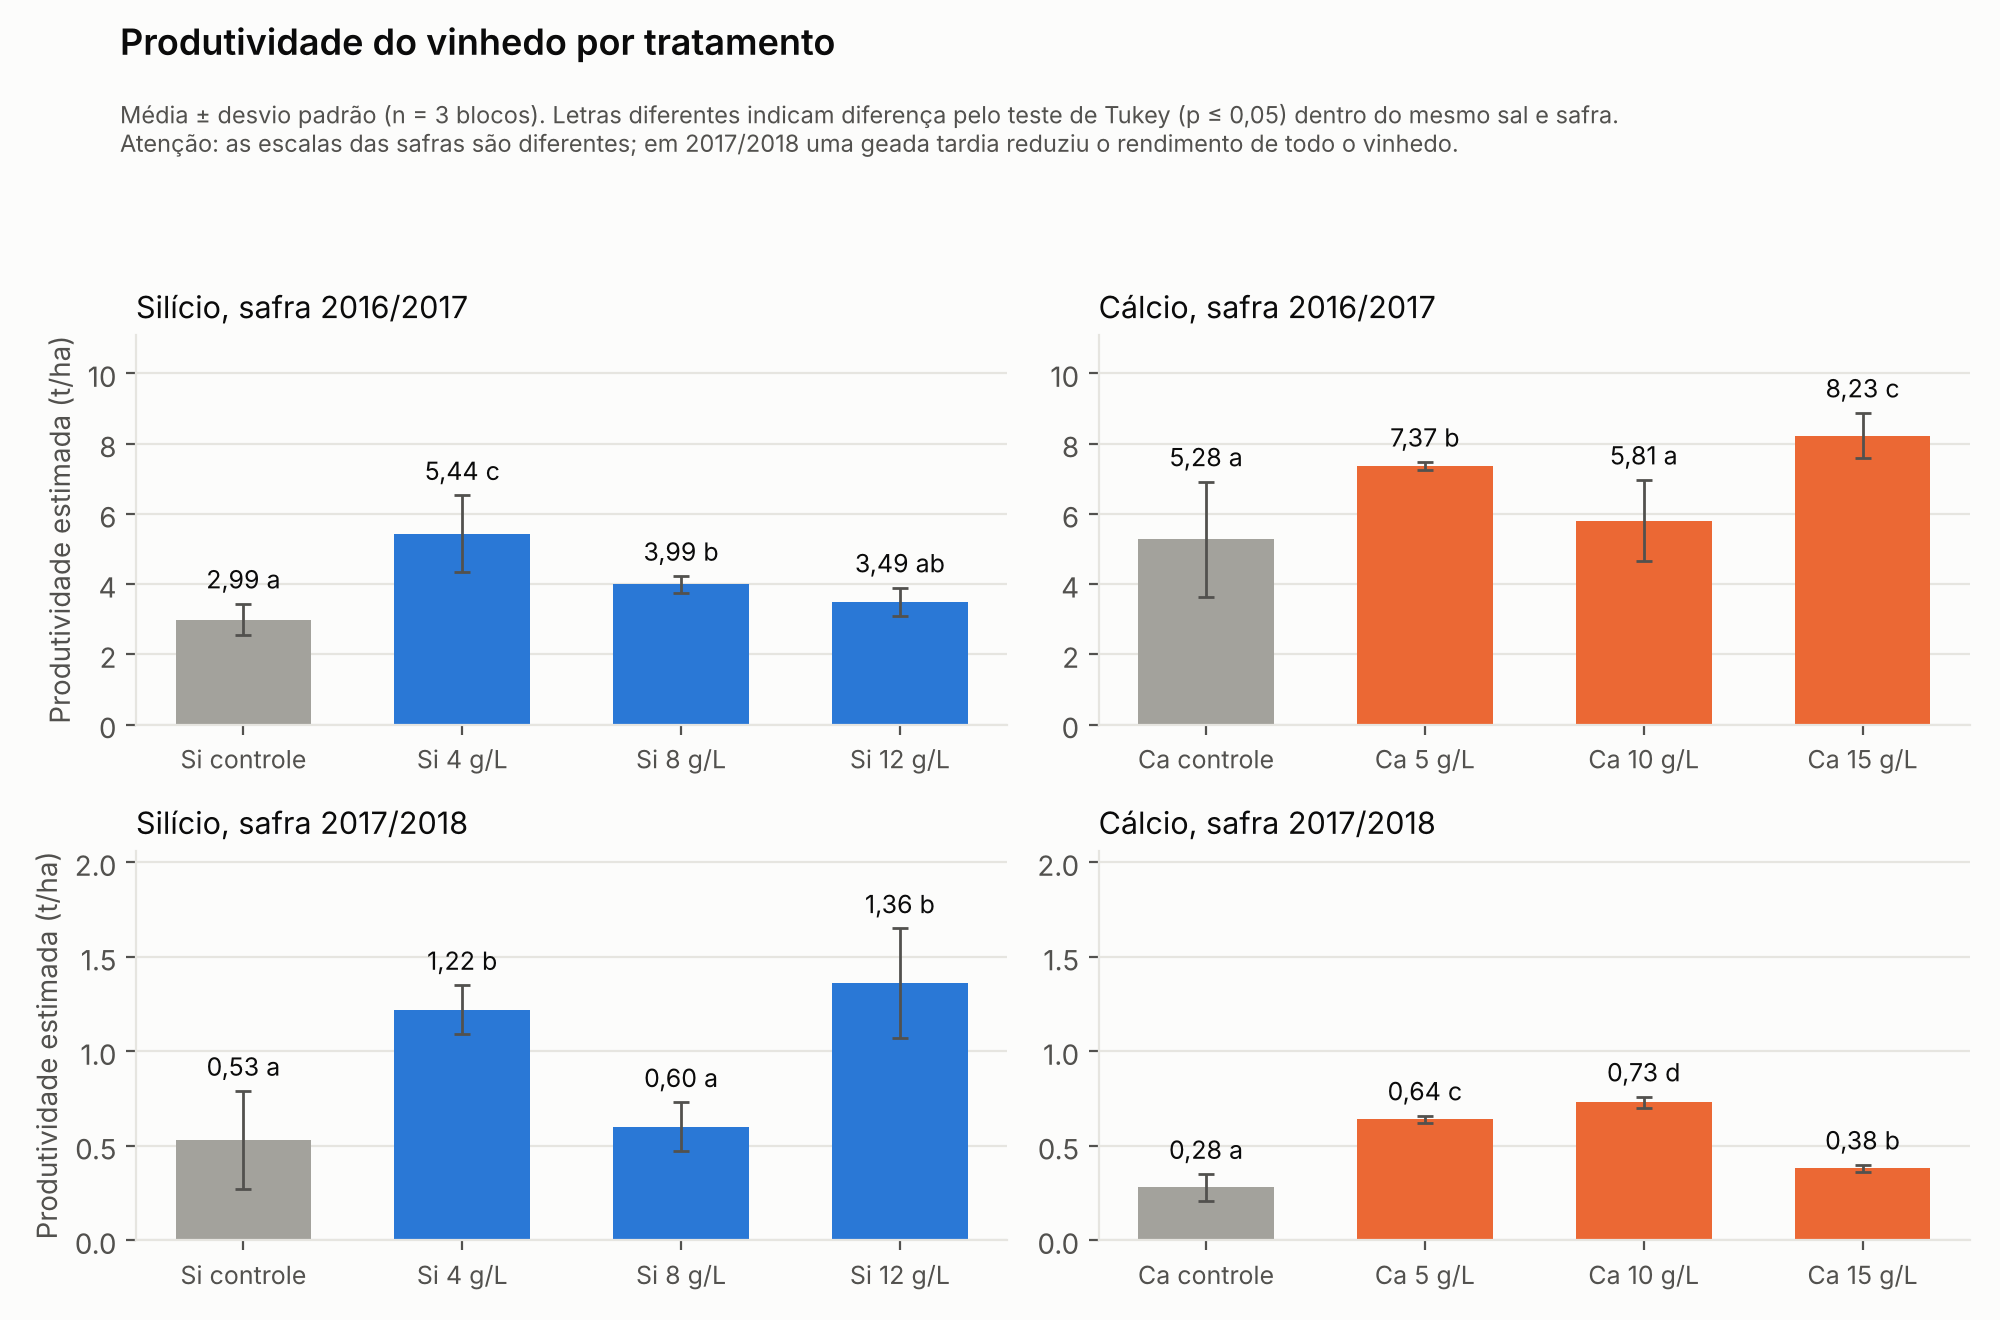
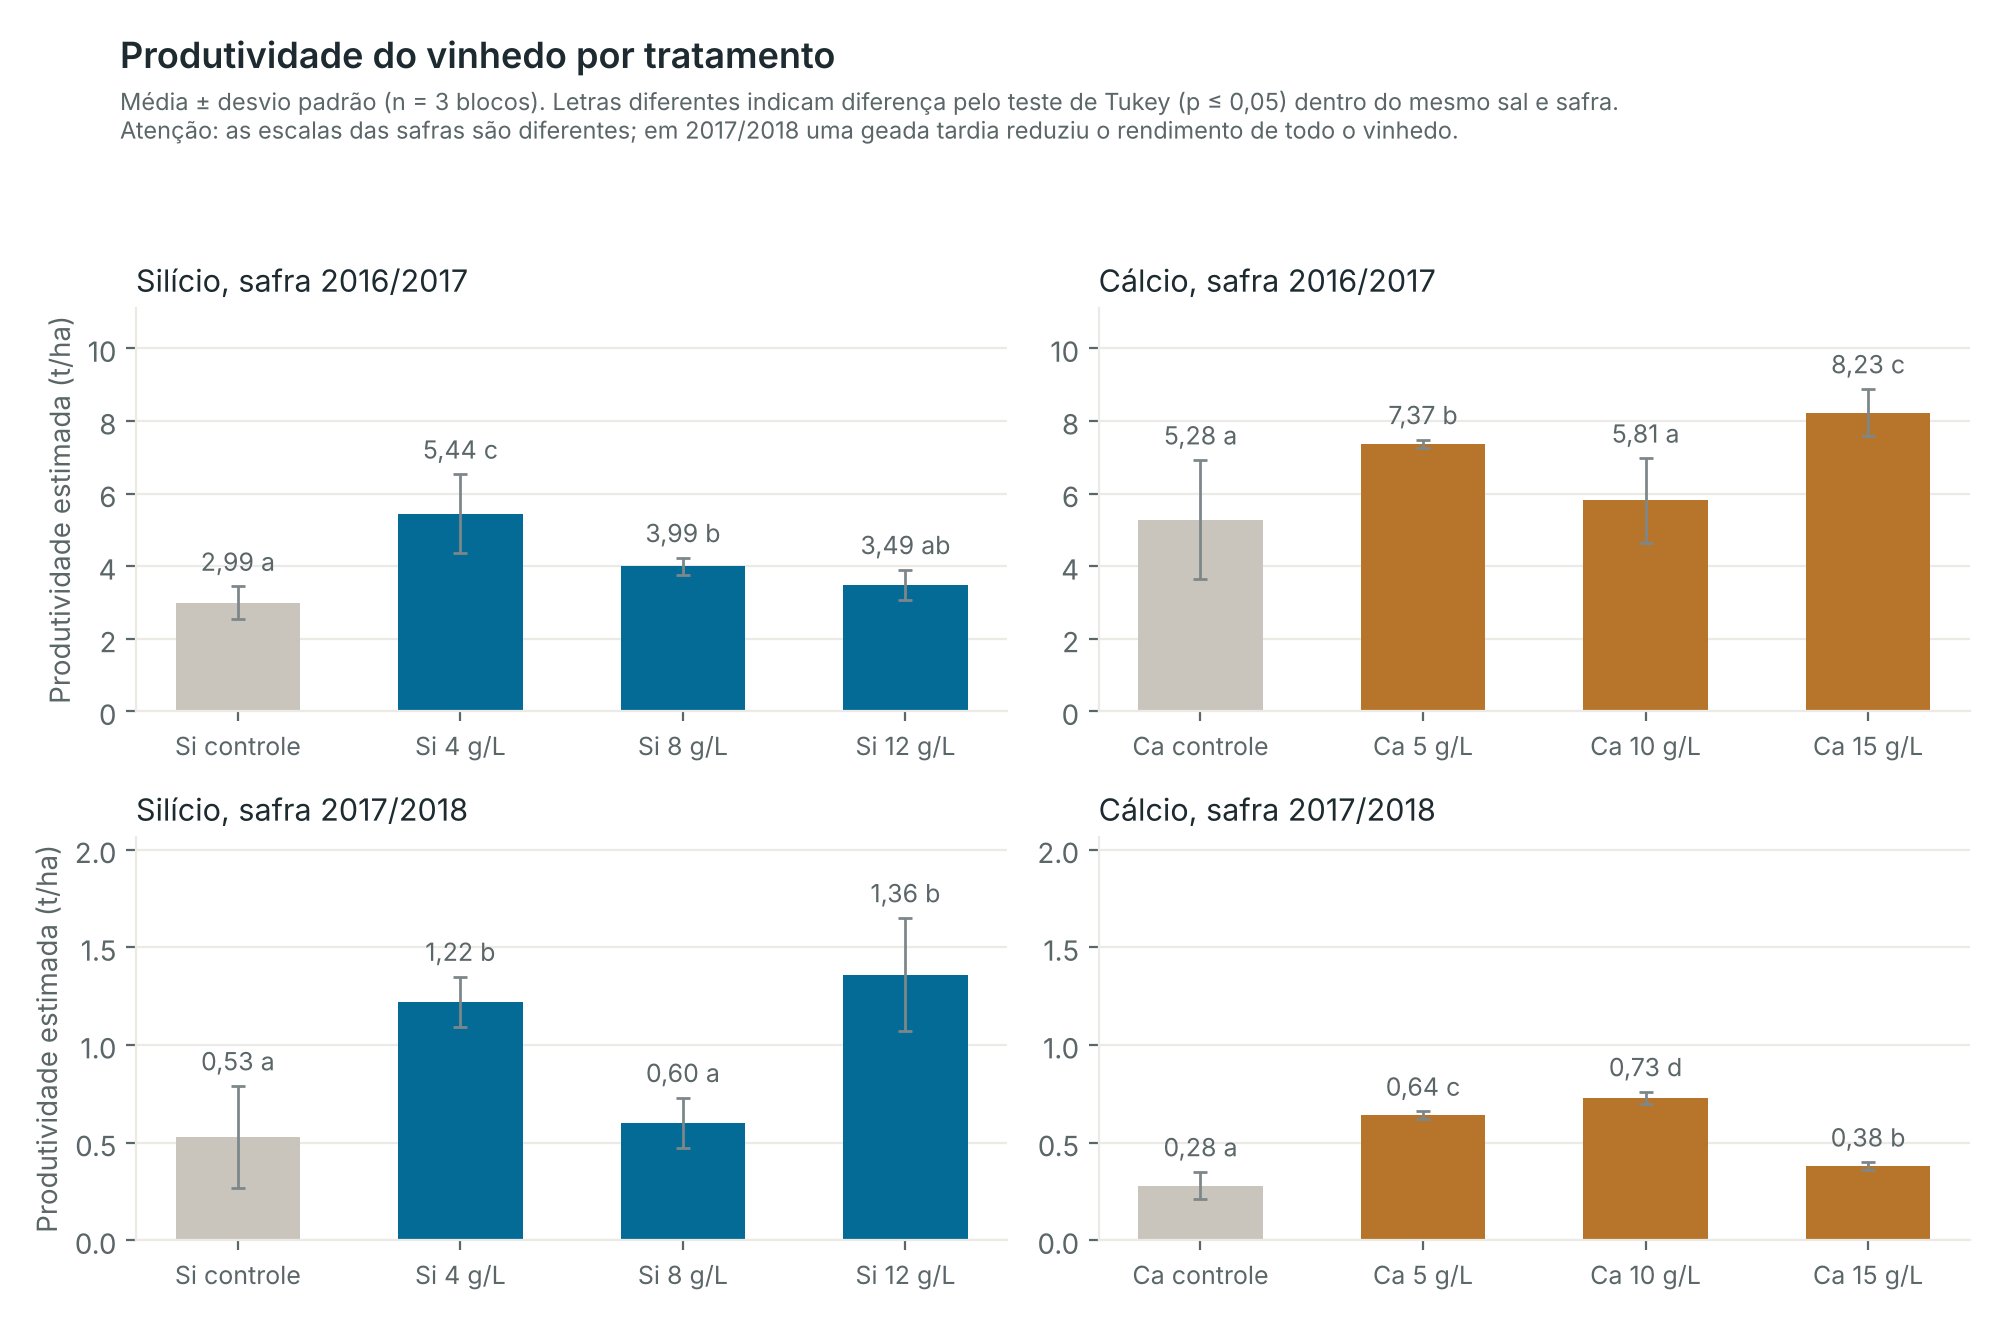
Visualização: nova paleta (azul-petróleo e ocre), validada para daltonismo e contraste

diff --git a/scripts/03_analysis.py b/scripts/03_analysis.py
@@ -19,9 +19,9 @@ d = pd.read_sql("""SELECT t.sal, t.nivel, t.rotulo, t.dose_g_l, m.safra, m.etapa
 d = d[d.flag_qualidade.fillna("") == ""]
 NIVEIS = ["controle", "baixa", "media", "alta"]
 
-# --- estilo (paleta de referência validada: Si = slot 1 azul, Ca = slot 2 laranja) ---
-SURF, INK, INK2, GRID, NEUTRO = "#fcfcfb", "#0b0b0b", "#52514e", "#e6e5e0", "#a3a29c"
-COR = {"Si": "#2a78d6", "Ca": "#eb6834"}
+# --- estilo: azul-petróleo (silício) e ocre (cálcio); par validado para daltonismo e contraste ---
+SURF, INK, INK2, GRID, NEUTRO = "#ffffff", "#1d2b30", "#5b6669", "#eceae5", "#c9c5bc"
+COR = {"Si": "#046b96", "Ca": "#b7752b"}
 plt.rcParams.update({"font.family": "Inter", "font.size": 10, "axes.edgecolor": GRID, "axes.labelcolor": INK2,
                      "xtick.color": INK2, "ytick.color": INK2, "axes.titlecolor": INK, "figure.facecolor": SURF,
                      "axes.facecolor": SURF, "axes.spines.top": False, "axes.spines.right": False, "savefig.dpi": 200})
@@ -92,27 +92,27 @@ for i, safra in enumerate([2017, 2018]):
         ax = axes[i, j]; g = prod[(prod.safra == safra) & (prod.sal == sal)].set_index("nivel").reindex(NIVEIS)
         topo = (prod[prod.safra == safra].media + prod[prod.safra == safra].dp).max()
         cores = [NEUTRO] + [COR[sal]] * 3
-        bars = ax.bar(range(4), g.media, color=cores, width=0.62, zorder=2)
-        ax.errorbar(range(4), g.media, yerr=g.dp, fmt="none", ecolor=INK2, elinewidth=1, capsize=3, zorder=3)
+        bars = ax.bar(range(4), g.media, color=cores, width=0.56, zorder=2)
+        ax.errorbar(range(4), g.media, yerr=g.dp, fmt="none", ecolor="#7d878a", elinewidth=1, capsize=2.5, zorder=3)
         for x, (m, s, l) in enumerate(zip(g.media, g.dp, g.letra_tukey)):
-            ax.text(x, m + s + topo * 0.03, f"{m:.2f}".replace(".", ",") + f" {l}", ha="center", va="bottom", fontsize=9, color=INK)
+            ax.text(x, m + s + topo * 0.03, f"{m:.2f}".replace(".", ",") + f" {l}", ha="center", va="bottom", fontsize=9, color=INK2)
         ax.set_xticks(range(4), [f"{sal} controle"] + [f"{sal} {v:g} g/L" for v in g.dose_g_l[1:]], fontsize=9)
         ax.set_title(f"{'Silício' if sal=='Si' else 'Cálcio'}, safra {safra-1}/{safra}", fontsize=11, loc="left")
         ax.yaxis.grid(True, color=GRID, lw=0.8, zorder=0); ax.set_axisbelow(True)
         ax.set_ylim(0, topo * 1.25)
         if j == 0: ax.set_ylabel("Produtividade estimada (t/ha)")
-fig.suptitle("Produtividade do vinhedo por tratamento", x=0.06, y=0.985, ha="left", fontsize=13, color=INK, fontweight="semibold")
-fig.text(0.06, 0.885, "Média ± desvio padrão (n = 3 blocos). Letras diferentes indicam diferença pelo teste de Tukey (p ≤ 0,05) dentro do mesmo sal e safra.\n"
+fig.suptitle("Produtividade do vinhedo por tratamento", x=0.06, y=0.975, ha="left", fontsize=13, color=INK, fontweight="semibold")
+fig.text(0.06, 0.895, "Média ± desvio padrão (n = 3 blocos). Letras diferentes indicam diferença pelo teste de Tukey (p ≤ 0,05) dentro do mesmo sal e safra.\n"
          "Atenção: as escalas das safras são diferentes; em 2017/2018 uma geada tardia reduziu o rendimento de todo o vinhedo.", fontsize=8.5, color=INK2)
-fig.tight_layout(rect=(0, 0, 1, 0.86)); fig.savefig(FIG / "01_produtividade.png"); plt.close(fig)
+fig.tight_layout(rect=(0, 0, 1, 0.88)); fig.savefig(FIG / "01_produtividade.png"); plt.close(fig)
 
 # --- Figura 2: trade-off produtividade x teor alcoólico ---
 fig, ax = plt.subplots(figsize=(8.6, 5.6))
-ax.axhline(0, color=INK2, lw=1, zorder=1); ax.axvline(0, color=INK2, lw=1, zorder=1)
+ax.axhline(0, color="#9aa3a6", lw=0.9, zorder=1); ax.axvline(0, color="#9aa3a6", lw=0.9, zorder=1)
 for sal in ["Si", "Ca"]:
     for safra, mk in [(2017, "o"), (2018, "s")]:
         g = placar[(placar.rotulo.str.startswith(sal)) & (placar.safra == safra)]
-        ax.scatter(g.produtividade_pct, g.alcool_vinho_pct, s=70, marker=mk, color=COR[sal], edgecolor=SURF, linewidth=2, zorder=3,
+        ax.scatter(g.produtividade_pct, g.alcool_vinho_pct, s=85, marker=mk, color=COR[sal], edgecolor=SURF, linewidth=2, zorder=3,
                    label=f"{'Silício' if sal=='Si' else 'Cálcio'}, safra {safra-1}/{safra}")
         for _, r in g.iterrows():
             off = (6, -12) if (r.rotulo == "Ca 5 g/L" and safra == 2018) else (6, 4)
@@ -122,7 +122,7 @@ ax.set_xlabel("Variação da produtividade vs. controle (%)"); ax.set_ylabel("Va
 ax.yaxis.grid(True, color=GRID, lw=0.8); ax.set_axisbelow(True)
 ax.legend(frameon=False, fontsize=9, loc="lower right")
 fig.suptitle("Produzir mais custa açúcar: o trade-off entre volume e teor alcoólico", x=0.02, y=0.98, ha="left", fontsize=12, fontweight="semibold")
-fig.text(0.02, 0.925, "Quase todos os tratamentos aumentam a produtividade e reduzem o álcool do vinho. As exceções são Ca 10 e Ca 15 em 2017/2018.",
+fig.text(0.02, 0.915, "Quase todos os tratamentos aumentam a produtividade e reduzem o álcool do vinho. As exceções são Ca 10 e Ca 15 em 2017/2018.",
         fontsize=8.5, color=INK2, va="bottom")
 fig.tight_layout(rect=(0, 0, 1, 0.91)); fig.savefig(FIG / "02_tradeoff_produtividade_alcool.png"); plt.close(fig)
 
@@ -132,7 +132,7 @@ itens = [("produtividade_t_ha", "vinhedo", "Produtividade"), ("SST", "mosto", "A
          ("FC", "vinho", "Polifenóis totais do vinho"), ("ABTS", "vinho", "Capacidade antioxidante do vinho"),
          ("trans-resveratrol", "vinho", "Resveratrol do vinho"), ("trans-caftárico", "vinho", "Ácido trans-caftárico do vinho")]
 ordem = [f"Si {x} g/L" for x in (4, 8, 12)] + [f"Ca {x} g/L" for x in (5, 10, 15)]
-cmap = LinearSegmentedColormap.from_list("div", ["#c8372f", "#e98b85", "#f0efec", "#7fb0e8", "#1f63b8"])
+cmap = LinearSegmentedColormap.from_list("div", ["#a8462f", "#d9967f", "#f2f0eb", "#7fb0cb", "#046b96"])
 fig, axes = plt.subplots(1, 2, figsize=(12, 4.8), sharey=True)
 for ax, safra in zip(axes, [2017, 2018]):
     M = np.array([[vs[(vs.codigo == c) & (vs.etapa == e) & (vs.safra == safra) & (vs.rotulo == r)].var_pct.squeeze() for r in ordem] for c, e, _ in itens], dtype=float)
@@ -140,7 +140,7 @@ for ax, safra in zip(axes, [2017, 2018]):
     im = ax.imshow(np.clip(M, -60, 60), cmap=cmap, norm=TwoSlopeNorm(0, -60, 60), aspect="auto")
     for i, j in itertools.product(range(M.shape[0]), range(M.shape[1])):
         v = M[i, j]; txt = f"{v:+.0f}%" + ("" if S[i, j] else "*")
-        ax.text(j, i, txt, ha="center", va="center", fontsize=8.5, color=SURF if abs(v) > 45 else INK)
+        ax.text(j, i, txt, ha="center", va="center", fontsize=8.5, color="#ffffff" if abs(v) > 40 else INK)
     ax.set_xticks(range(len(ordem)), ordem, rotation=0, fontsize=8.5); ax.set_yticks(range(len(itens)), [x[2] for x in itens])
     ax.set_title(f"Safra {safra-1}/{safra}", loc="left", fontsize=11)
     ax.set_xticks(np.arange(-.5, len(ordem)), minor=True); ax.set_yticks(np.arange(-.5, len(itens)), minor=True)
@@ -148,7 +148,7 @@ for ax, safra in zip(axes, [2017, 2018]):
     for s in ax.spines.values(): s.set_visible(False)
 cax = fig.add_axes([0.885, 0.15, 0.012, 0.6]); cb = fig.colorbar(im, cax=cax); cb.set_label("Variação vs. controle (%)\n(escala limitada a ±60%)", color=INK2, fontsize=8.5); cb.outline.set_visible(False)
 fig.suptitle("Efeito de cada tratamento em relação ao controle", x=0.02, ha="left", fontsize=13, fontweight="semibold")
-fig.text(0.02, 0.9, "Azul = acima do controle; vermelho = abaixo. * = sem diferença estatística em relação ao controle (Tukey, p ≤ 0,05).", fontsize=8.5, color=INK2)
+fig.text(0.02, 0.9, "Azul-petróleo = acima do controle; terracota = abaixo. * = sem diferença estatística em relação ao controle (Tukey, p ≤ 0,05).", fontsize=8.5, color=INK2)
 fig.subplots_adjust(left=0.2, right=0.86, top=0.82, bottom=0.08, wspace=0.08); fig.savefig(FIG / "03_mapa_variacao.png"); plt.close(fig)
 
 # --- Figura 4: PCA ---
